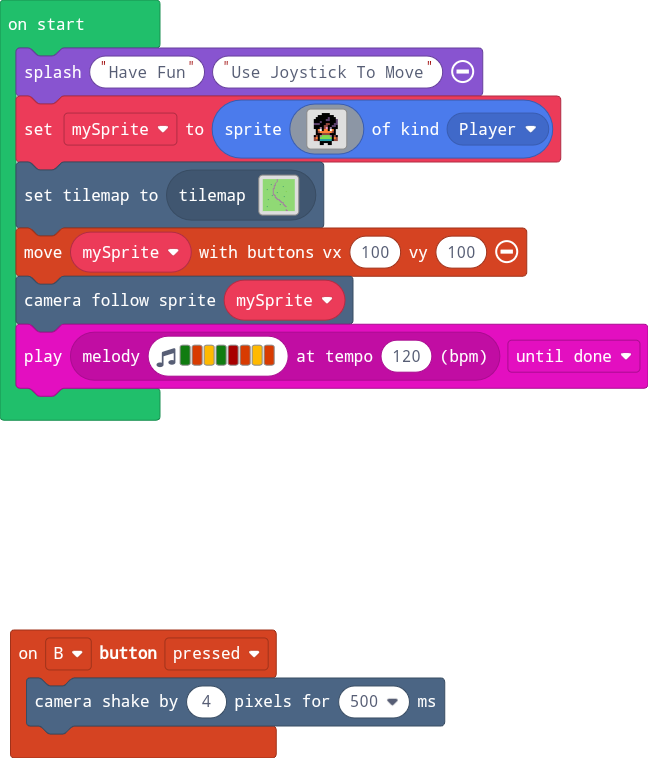
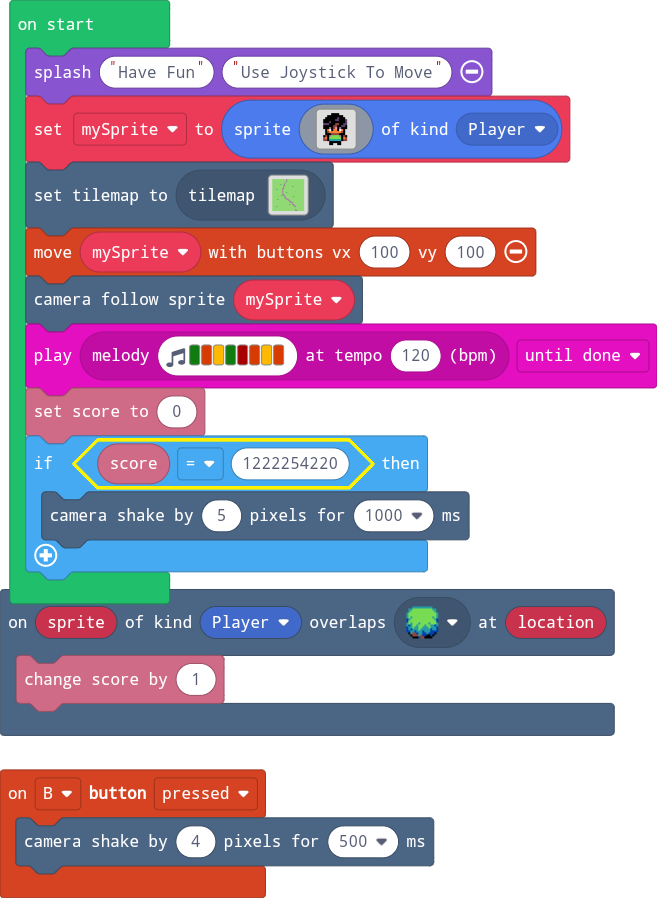
Update main.blocks, main.ts

diff --git a/main.ts b/main.ts
@@ -1,6 +1,9 @@
 controller.B.onEvent(ControllerButtonEvent.Pressed, function () {
     scene.cameraShake(4, 500)
 })
+scene.onOverlapTile(SpriteKind.Player, sprites.builtin.forestTiles0, function (sprite, location) {
+    info.changeScoreBy(1)
+})
 game.splash("Have Fun", "Use Joystick To Move")
 let mySprite = sprites.create(img`
     . . . . f f f f . . . . . 
@@ -24,3 +27,7 @@ tiles.setCurrentTilemap(tilemap`level2`)
 controller.moveSprite(mySprite, 100, 100)
 scene.cameraFollowSprite(mySprite)
 music.play(music.stringPlayable("G B A G C5 B A B ", 120), music.PlaybackMode.UntilDone)
+info.setScore(0)
+if (info.score() == 1222254220) {
+    scene.cameraShake(5, 1000)
+}
